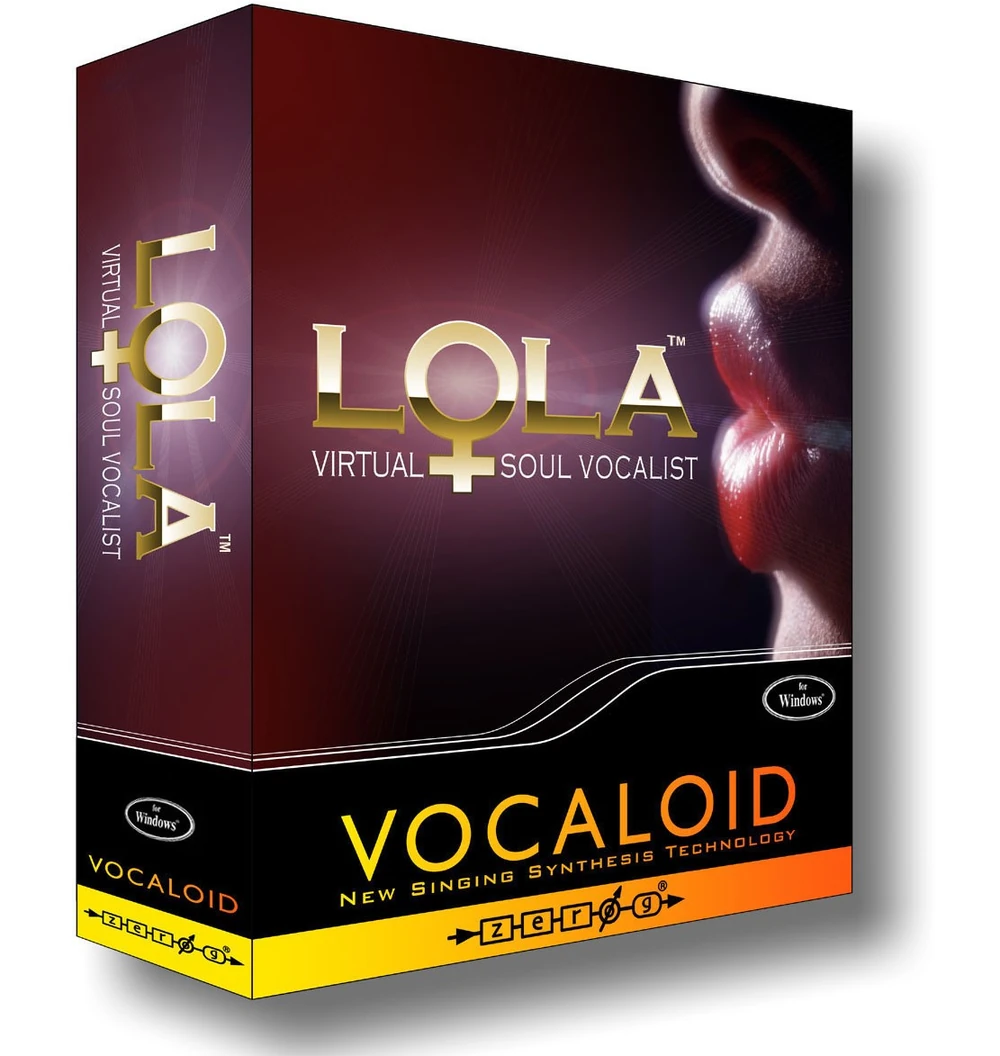
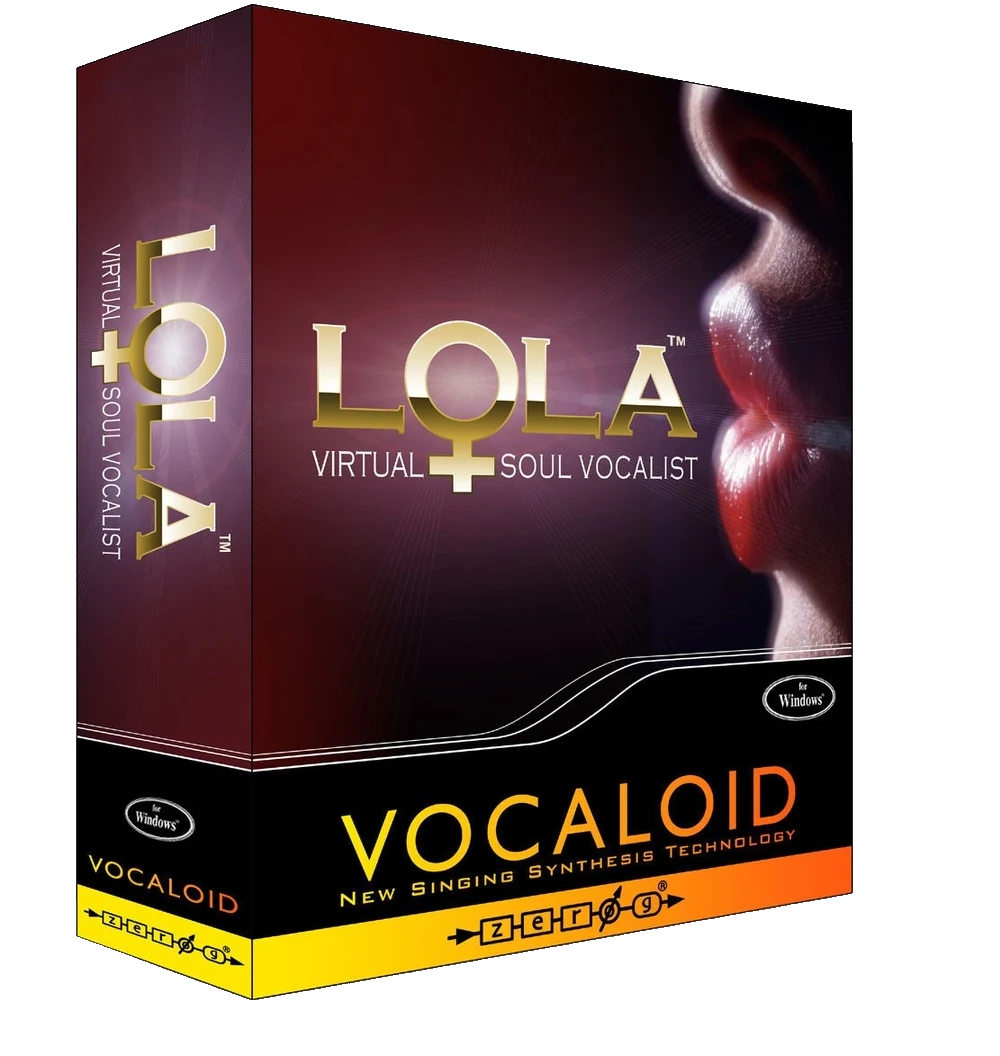
remove whitespace and rezised some images

Changed region(s): [[0.093, 0.125, 0.93, 1.0]]

diff --git a/site/css/json.css b/site/css/json.css
@@ -8,8 +8,8 @@ margin-top: 10px;
 
 }
 .image-vocaloid {
-    height: 225px;
-    width: 175px;
+    height: 200px;
+    
 }
 
 #vocaloid-cont {
